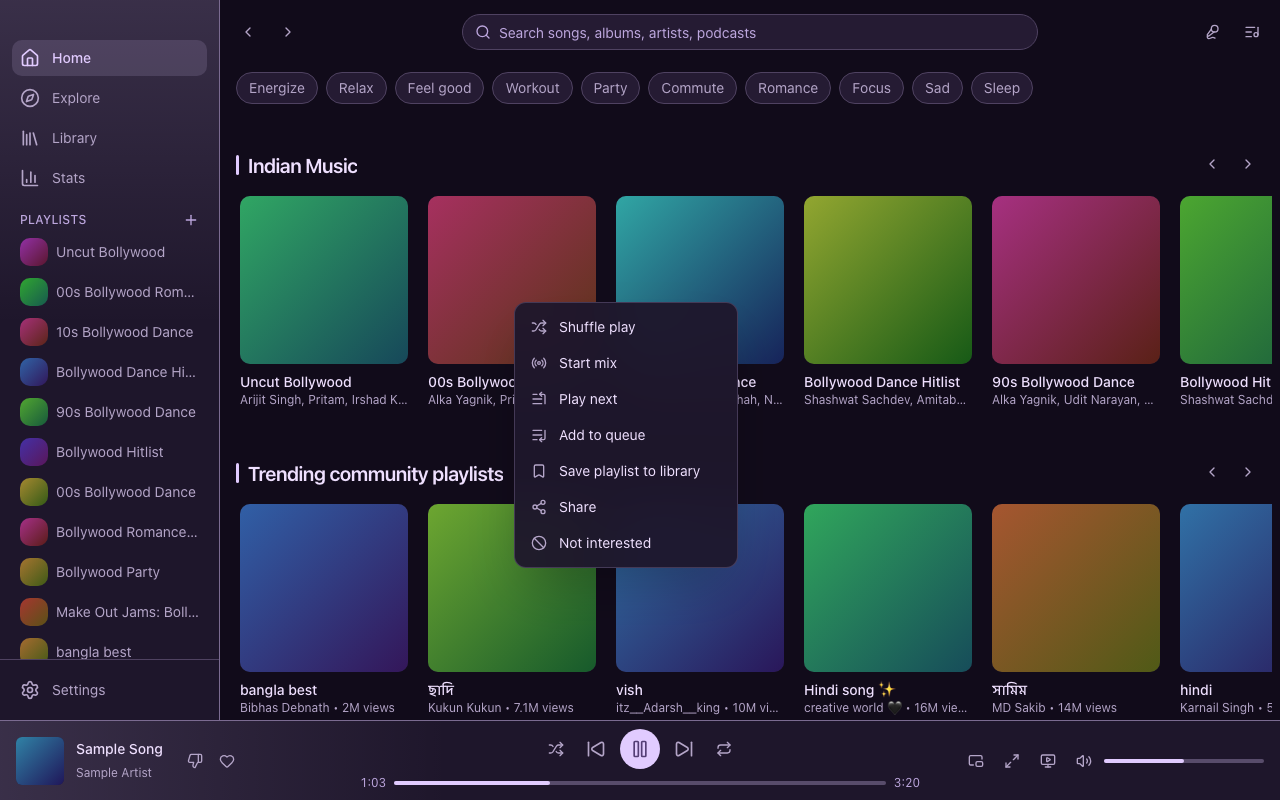
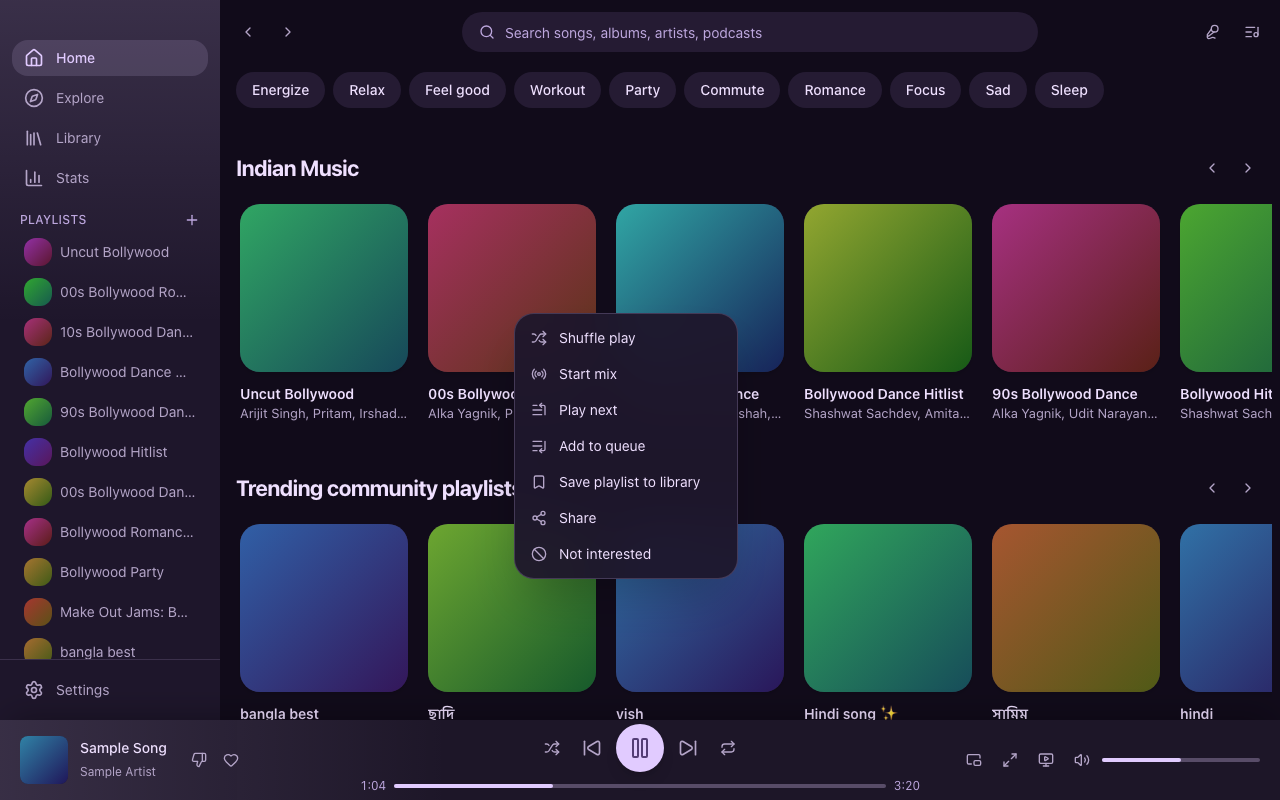
style: frosted player bar, plainer sidebar, toggle switches, softer dialogs
The player bar is frosted with a bigger accent play button and a soft shadow
instead of a hard edge, the sidebar loses its divider and gets rounder items,
sliders thicken on hover, dialogs and inputs are rounder and softer, toasts are
inverse pills, Settings cards are rounder, the selected segment uses the accent,
and native checkboxes become proper toggle switches.

Tests no longer depend on wall-clock timing: the fake player stays paused where
position matters and the colour fade is detected from the browser's transitionrun
event. Notes an unattributed idle-CPU finding in docs/performance.md.

diff --git a/apps/desktop/e2e/color-transition.e2e.ts b/apps/desktop/e2e/color-transition.e2e.ts
@@ -1,6 +1,20 @@
 import { expect, test, type Page } from '@playwright/test';
 import { emit, installTauri } from './mock-tauri';
 
+/** Start recording whether the browser runs a transition on the primary colour. */
+const watchFade = (page: Page): Promise<void> =>
+  page.evaluate(() => {
+    const w = window as unknown as { __fade: boolean };
+    w.__fade = false;
+    document.documentElement.addEventListener('transitionrun', (e) => {
+      if (e.propertyName === '--color-primary') w.__fade = true;
+    });
+  });
+
+/** Whether a transition on the primary colour has started since `watchFade`. */
+const sawFade = (page: Page): Promise<boolean> =>
+  page.evaluate(() => (window as unknown as { __fade: boolean }).__fade);
+
 const primary = (page: Page): Promise<string> =>
   page.evaluate(() =>
     getComputedStyle(document.documentElement).getPropertyValue('--color-primary').trim(),
@@ -20,41 +34,30 @@ async function openAppearance(page: Page): Promise<void> {
 test('changing the accent fades the colours instead of switching instantly', async ({ page }) => {
   await openAppearance(page);
   const before = await primary(page);
+  await watchFade(page);
   await page.getByRole('radio', { name: 'Green' }).click();
-  await page.waitForTimeout(120);
-  const during = await primary(page);
-  await page.waitForTimeout(900);
-  const after = await primary(page);
-  expect(after).not.toBe(before);
-  // Part-way through, the colour is neither where it started nor where it ends up.
-  expect(during).not.toBe(before);
-  expect(during).not.toBe(after);
+  // The browser started a transition (an event, so it does not depend on when we look).
+  await expect.poll(() => sawFade(page), { timeout: 15_000 }).toBe(true);
+  await expect.poll(() => primary(page), { timeout: 15_000 }).not.toBe(before);
 });
 
 test('switching theme fades too', async ({ page }) => {
   await openAppearance(page);
   await page.getByRole('radio', { name: 'Dark', exact: true }).click();
-  await page.waitForTimeout(900);
+  await expect.poll(() => primary(page), { timeout: 15_000 }).toMatch(/^rgb/u);
   const dark = await primary(page);
+  await watchFade(page);
   await page.getByRole('radio', { name: 'Light', exact: true }).click();
-  await page.waitForTimeout(120);
-  const during = await primary(page);
-  await page.waitForTimeout(900);
-  const light = await primary(page);
-  expect(light).not.toBe(dark);
-  expect(during).not.toBe(dark);
-  expect(during).not.toBe(light);
+  await expect.poll(() => sawFade(page), { timeout: 15_000 }).toBe(true);
+  await expect.poll(() => primary(page), { timeout: 15_000 }).not.toBe(dark);
 });
 
 test('with reduced motion the change is immediate', async ({ page }) => {
   await page.emulateMedia({ reducedMotion: 'reduce' });
   await openAppearance(page);
   const before = await primary(page);
+  await watchFade(page);
   await page.getByRole('radio', { name: 'Green' }).click();
-  await page.waitForTimeout(60);
-  const soon = await primary(page);
-  await page.waitForTimeout(500);
-  const after = await primary(page);
-  expect(after).not.toBe(before);
-  expect(soon).toBe(after);
+  await expect.poll(() => primary(page), { timeout: 15_000 }).not.toBe(before);
+  expect(await sawFade(page)).toBe(false);
 });

diff --git a/apps/desktop/src/app/pages/SettingsPage.tsx b/apps/desktop/src/app/pages/SettingsPage.tsx
@@ -27,7 +27,7 @@ function Toggle({
   onChange: (v: boolean) => void;
 }) {
   return (
-    <label className="flex items-center justify-between gap-4 rounded-lg border border-border bg-bg-elevated px-4 py-3">
+    <label className="flex items-center justify-between gap-4 rounded-2xl border border-border/50 bg-bg-elevated px-4 py-3">
       <span>
         <span className="block text-sm font-medium">{label}</span>
         {hint && <span className="block text-xs text-fg-muted">{hint}</span>}
@@ -90,7 +90,7 @@ export function SettingsPage() {
 
       <section className="flex flex-col gap-3">
         <h2 className="font-semibold">{t('settings.account')}</h2>
-        <div className="flex items-center gap-3 rounded-lg border border-border bg-bg-elevated p-4">
+        <div className="flex items-center gap-3 rounded-2xl border border-border/50 bg-bg-elevated p-4">
           {account.data?.avatarUrl && (
             <CachedImg src={account.data.avatarUrl} alt="" className="size-10 rounded-full" />
           )}
@@ -169,7 +169,7 @@ export function SettingsPage() {
         <h2 className="font-semibold">{t('settings.shortcuts')}</h2>
         <p className="text-sm text-fg-muted">{t('settings.shortcutsHint')}</p>
         {settings && (
-          <div className="flex flex-col divide-y divide-border rounded-lg border border-border bg-bg-elevated">
+          <div className="flex flex-col divide-y divide-border rounded-2xl border border-border/50 bg-bg-elevated">
             {SHORTCUT_ACTIONS.map((a) => (
               <div
                 key={a.key}
@@ -192,7 +192,7 @@ export function SettingsPage() {
 
       <section className="flex flex-col gap-3">
         <h2 className="font-semibold">{t('settings.updates')}</h2>
-        <div className="flex items-center gap-3 rounded-lg border border-border bg-bg-elevated p-4 text-sm">
+        <div className="flex items-center gap-3 rounded-2xl border border-border/50 bg-bg-elevated p-4 text-sm">
           <div className="flex-1">
             <div>{t('settings.version', { version: version || '—' })}</div>
             <div className="text-xs text-fg-muted">
@@ -223,7 +223,7 @@ export function SettingsPage() {
 
       <section className="flex flex-col gap-3">
         <h2 className="font-semibold">{t('settings.diagnostics')}</h2>
-        <dl className="grid grid-cols-[auto_1fr] gap-x-6 gap-y-1 rounded-lg border border-border bg-bg-elevated p-4 text-sm">
+        <dl className="grid grid-cols-[auto_1fr] gap-x-6 gap-y-1 rounded-2xl border border-border/50 bg-bg-elevated p-4 text-sm">
           <dt className="text-fg-subtle">{t('diag.bridge')}</dt>
           <dd>{bridgeVersion ?? '—'}</dd>
           <dt className="text-fg-subtle">{t('diag.health')}</dt>

diff --git a/apps/desktop/src/app/Sidebar.tsx b/apps/desktop/src/app/Sidebar.tsx
@@ -27,7 +27,7 @@ export function Sidebar() {
   return (
     <nav
       aria-label={t('nav.primary')}
-      className="flex h-full min-h-0 flex-col border-e border-accent-line bg-bg-elevated bg-[image:linear-gradient(to_bottom,var(--color-accent-soft),transparent_45%)]"
+      className="flex h-full min-h-0 flex-col bg-bg-elevated bg-[image:linear-gradient(to_bottom,var(--color-accent-soft),transparent_45%)]"
     >
       <div data-tauri-drag-region className="h-10 shrink-0" />
       <div className="flex flex-col gap-1 px-3">
@@ -38,10 +38,10 @@ export function Sidebar() {
             end={n.end ?? false}
             className={({ isActive }) =>
               cn(
-                'flex h-(--nav-h) items-center gap-3 rounded-md px-2 text-sm transition-colors duration-(--duration-fast)',
+                'flex h-(--nav-h) items-center gap-3 rounded-lg px-3 text-sm transition-colors duration-(--duration-fast)',
                 isActive
                   ? 'bg-accent-soft font-medium text-accent'
-                  : 'text-fg-muted hover:bg-accent-soft hover:text-fg',
+                  : 'text-fg-muted hover:bg-bg-overlay hover:text-fg',
               )
             }
           >
@@ -72,10 +72,10 @@ export function Sidebar() {
             to={routeForEndpoint(p.endpoint) ?? '#'}
             className={({ isActive }) =>
               cn(
-                'flex h-[calc(var(--nav-h)+0.25rem)] items-center gap-2 rounded-md px-2 text-sm',
+                'flex h-[calc(var(--nav-h)+0.25rem)] items-center gap-2 rounded-lg px-3 text-sm',
                 isActive
                   ? 'bg-accent-soft font-medium text-accent'
-                  : 'text-fg-muted hover:bg-accent-soft hover:text-fg',
+                  : 'text-fg-muted hover:bg-bg-overlay hover:text-fg',
               )
             }
           >
@@ -93,15 +93,15 @@ export function Sidebar() {
           </div>
         )}
       </div>
-      <div className="border-t border-border p-3">
+      <div className="border-t border-border/60 p-3">
         <NavLink
           to="/settings"
           className={({ isActive }) =>
             cn(
-              'flex h-(--nav-h) items-center gap-3 rounded-md px-2 text-sm',
+              'flex h-(--nav-h) items-center gap-3 rounded-lg px-3 text-sm',
               isActive
                 ? 'bg-accent-soft font-medium text-accent'
-                : 'text-fg-muted hover:bg-accent-soft hover:text-fg',
+                : 'text-fg-muted hover:bg-bg-overlay hover:text-fg',
             )
           }
         >

diff --git a/packages/ui/src/components/Dialog.tsx b/packages/ui/src/components/Dialog.tsx
@@ -28,17 +28,17 @@ export function Dialog({
   return (
     <RadixDialog.Root open={open} onOpenChange={onOpenChange}>
       <RadixDialog.Portal>
-        <RadixDialog.Overlay className="fixed inset-0 z-40 bg-black/50 backdrop-blur-sm" />
+        <RadixDialog.Overlay className="fixed inset-0 z-40 bg-black/60 backdrop-blur-sm" />
         <RadixDialog.Content
           className={cn(
-            'fixed top-1/2 left-1/2 z-50 flex w-[min(28rem,calc(100vw-2rem))] -translate-x-1/2 -translate-y-1/2 flex-col gap-4 rounded-lg border border-border bg-bg-elevated p-5 shadow-2xl',
+            'fixed top-1/2 left-1/2 z-50 flex w-[min(28rem,calc(100vw-2rem))] -translate-x-1/2 -translate-y-1/2 flex-col gap-4 rounded-2xl bg-bg-elevated p-6 shadow-2xl ring-1 ring-border/60',
             'focus:outline-none',
             className,
           )}
         >
           <div className="flex items-start justify-between gap-4">
             <div>
-              <RadixDialog.Title className="font-display text-lg font-semibold">
+              <RadixDialog.Title className="font-display text-xl font-bold tracking-tight">
                 {title}
               </RadixDialog.Title>
               {description && (
@@ -61,4 +61,4 @@ export function Dialog({
 }
 
 export const inputClass =
-  'h-10 w-full rounded-md border border-border bg-bg px-3 text-sm text-fg placeholder:text-fg-subtle focus-visible:outline-2 focus-visible:outline-offset-2 focus-visible:outline-accent';
+  'h-11 w-full rounded-xl border border-transparent bg-bg-overlay px-4 text-sm text-fg placeholder:text-fg-subtle transition-colors focus-visible:border-accent focus-visible:bg-bg focus-visible:outline-none focus-visible:ring-4 focus-visible:ring-accent-soft';

diff --git a/apps/desktop/e2e/karaoke.e2e.ts b/apps/desktop/e2e/karaoke.e2e.ts
@@ -49,7 +49,7 @@ test.describe('with timed lyrics from LRCLIB', () => {
   test.beforeEach(async ({ page }) => {
     await installTauri(page, { lrclib: LRCLIB });
     await page.goto('/');
-    await startPlayback(page, { positionS: 4 });
+    await startPlayback(page, { positionS: 4, playing: false });
     await openKaraoke(page);
     await page
       .getByRole('region', { name: 'Karaoke' })
@@ -64,7 +64,7 @@ test.describe('with timed lyrics from LRCLIB', () => {
     await expect(karaoke.getByText('Up next')).toBeVisible();
     await expect(karaoke.getByText('Hello from the other side')).toBeVisible();
 
-    await setPosition(page, 11, true);
+    await setPosition(page, 11, false);
     await expect(karaoke.getByRole('img', { name: 'Instrumental' })).toBeHidden();
     // The line being sung is split into words that fill one by one.
     await expect(karaoke.locator('p span span').filter({ hasText: 'Hello' }).first()).toBeVisible();
@@ -79,7 +79,7 @@ test.describe('with timed lyrics from LRCLIB', () => {
   });
 
   test('keyboard: space toggles playback and ] nudges the timing', async ({ page }) => {
-    await setPosition(page, 11, true);
+    await setPosition(page, 11, false);
     await page.keyboard.press(' ');
     await page.keyboard.press(']');
     await page.keyboard.press('ArrowRight');

diff --git a/apps/desktop/src/styles.css b/apps/desktop/src/styles.css
@@ -136,3 +136,44 @@ input[type='range'] {
 * {
   scrollbar-color: color-mix(in oklch, var(--color-accent) 40%, transparent) transparent;
 }
+
+/* Toggle switch: a pill track and a round thumb that slides over when on. */
+input[type='checkbox'][role='switch'] {
+  appearance: none;
+  position: relative;
+  flex: none;
+  width: 44px;
+  height: 26px;
+  margin: 0;
+  border-radius: 9999px;
+  background: var(--color-border);
+  transition: background-color var(--duration-base) var(--ease-out);
+}
+input[type='checkbox'][role='switch']::before {
+  content: '';
+  position: absolute;
+  top: 3px;
+  inset-inline-start: 3px;
+  width: 20px;
+  height: 20px;
+  border-radius: 9999px;
+  background: var(--color-fg);
+  box-shadow: 0 1px 3px rgb(0 0 0 / 0.35);
+  transition:
+    inset-inline-start var(--duration-base) var(--ease-out),
+    background-color var(--duration-base) var(--ease-out);
+}
+input[type='checkbox'][role='switch']:checked {
+  background: var(--color-accent);
+}
+input[type='checkbox'][role='switch']:checked::before {
+  inset-inline-start: 21px;
+  background: var(--color-accent-fg);
+}
+input[type='checkbox'][role='switch']:focus-visible {
+  outline: 2px solid var(--color-accent);
+  outline-offset: 2px;
+}
+input[type='checkbox'][role='switch']:disabled {
+  opacity: 0.4;
+}

diff --git a/apps/desktop/e2e/artwork.e2e.ts b/apps/desktop/e2e/artwork.e2e.ts
@@ -35,7 +35,7 @@ test('covers are kept for offline use and shown when the network copy fails', as
   const cover = page.locator('footer img').first();
   await expect(cover).toBeVisible();
   // The cover is stored once it has loaded (the shelf covers are stored too, so wait for this one).
-  await expect.poll(() => isStored(page, ART)).toBe(true);
+  await expect.poll(() => isStored(page, ART), { timeout: 20_000 }).toBe(true);
 
   // Go offline: every image request now fails. A fresh load should still show the cover.
   await page.route(/^https:/u, (route) =>
@@ -47,7 +47,9 @@ test('covers are kept for offline use and shown when the network copy fails', as
   await startPlayback(page, { track: { ...TRACK, artworkUrl: ART } });
   const offlineCover = page.locator('footer img').first();
   await expect
-    .poll(async () => offlineCover.evaluate((img: HTMLImageElement) => img.currentSrc))
+    .poll(async () => offlineCover.evaluate((img: HTMLImageElement) => img.currentSrc), {
+      timeout: 20_000,
+    })
     .toMatch(/^blob:/u);
   expect(await offlineCover.evaluate((img: HTMLImageElement) => img.naturalWidth)).toBeGreaterThan(
     0,

diff --git a/apps/desktop/src/app/PlayerBar.tsx b/apps/desktop/src/app/PlayerBar.tsx
@@ -101,7 +101,7 @@ export function PlayerBar() {
   return (
     <footer
       aria-label={t('player.region')}
-      className="grid h-20 grid-cols-[minmax(0,1fr)_minmax(0,2fr)_minmax(0,1fr)] items-center gap-4 border-t border-accent-line bg-bg-elevated bg-[image:linear-gradient(to_right,var(--color-accent-soft),transparent_35%)] px-4"
+      className="grid h-20 grid-cols-[minmax(0,1fr)_minmax(0,2fr)_minmax(0,1fr)] items-center gap-4 bg-bg-elevated/85 bg-[image:linear-gradient(to_right,var(--color-accent-soft),transparent_35%)] px-5 shadow-[0_-12px_32px_-12px_rgb(0_0_0/0.35)] backdrop-blur-xl"
     >
       <div className="flex min-w-0 items-center gap-3">
         {track?.artworkUrl ? (
@@ -181,6 +181,8 @@ export function PlayerBar() {
           <IconButton
             label={playing ? t('player.pause') : t('player.play')}
             variant="solid"
+            size="lg"
+            className="shadow-lg hover:scale-105"
             disabled={disabled}
             onClick={() => void sendCommand({ type: 'toggle' })}
           >

diff --git a/apps/desktop/src/app/components/StorageSection.tsx b/apps/desktop/src/app/components/StorageSection.tsx
@@ -25,7 +25,7 @@ export function StorageSection() {
   return (
     <section className="flex flex-col gap-3">
       <h2 className="font-semibold">{t('settings.storage')}</h2>
-      <div className="flex items-center justify-between gap-4 rounded-lg border border-border bg-bg-elevated px-4 py-3">
+      <div className="flex items-center justify-between gap-4 rounded-2xl border border-border/50 bg-bg-elevated px-4 py-3">
         <div>
           <div className="text-sm font-medium">{t('settings.artworkCache')}</div>
           <div className="text-xs text-fg-muted">

diff --git a/apps/desktop/src/app/components/PluginsSection.tsx b/apps/desktop/src/app/components/PluginsSection.tsx
@@ -34,7 +34,7 @@ function PluginCard({ plugin: p }: { plugin: PluginRecord }) {
   const id = p.manifest.id;
   const fields = p.def.settingsFields ?? [];
   return (
-    <div className="flex flex-col gap-3 rounded-lg border border-border bg-bg-elevated p-4">
+    <div className="flex flex-col gap-3 rounded-2xl border border-border/50 bg-bg-elevated p-4">
       <div className="flex items-start justify-between gap-4">
         <div className="min-w-0">
           <div className="font-medium">{td(`plugin.${id}.name`, p.manifest.name)}</div>

diff --git a/packages/ui/src/components/Slider.tsx b/packages/ui/src/components/Slider.tsx
@@ -47,7 +47,7 @@ export function Slider({
           if (v[0] !== undefined) onCommit?.(v[0]);
         }}
       >
-        <RadixSlider.Track className="relative h-1 grow rounded-full bg-accent-muted">
+        <RadixSlider.Track className="relative h-1 grow rounded-full bg-accent-muted transition-[height] duration-150 group-hover:h-1.5">
           <RadixSlider.Range className="absolute h-full rounded-full bg-accent group-hover:brightness-110" />
         </RadixSlider.Track>
         <RadixSlider.Thumb

diff --git a/apps/desktop/src/app/components/Toaster.tsx b/apps/desktop/src/app/components/Toaster.tsx
@@ -16,7 +16,7 @@ export function Toaster() {
             animate={{ opacity: 1, y: 0 }}
             exit={{ opacity: 0, y: 8 }}
             transition={{ duration: 0.2, ease: [0.22, 1, 0.36, 1] }}
-            className="rounded-md border border-border bg-bg-overlay px-4 py-2 text-sm shadow-lg"
+            className="rounded-full bg-fg px-5 py-3 text-sm font-medium text-bg shadow-xl"
           >
             {t.text}
           </motion.div>
